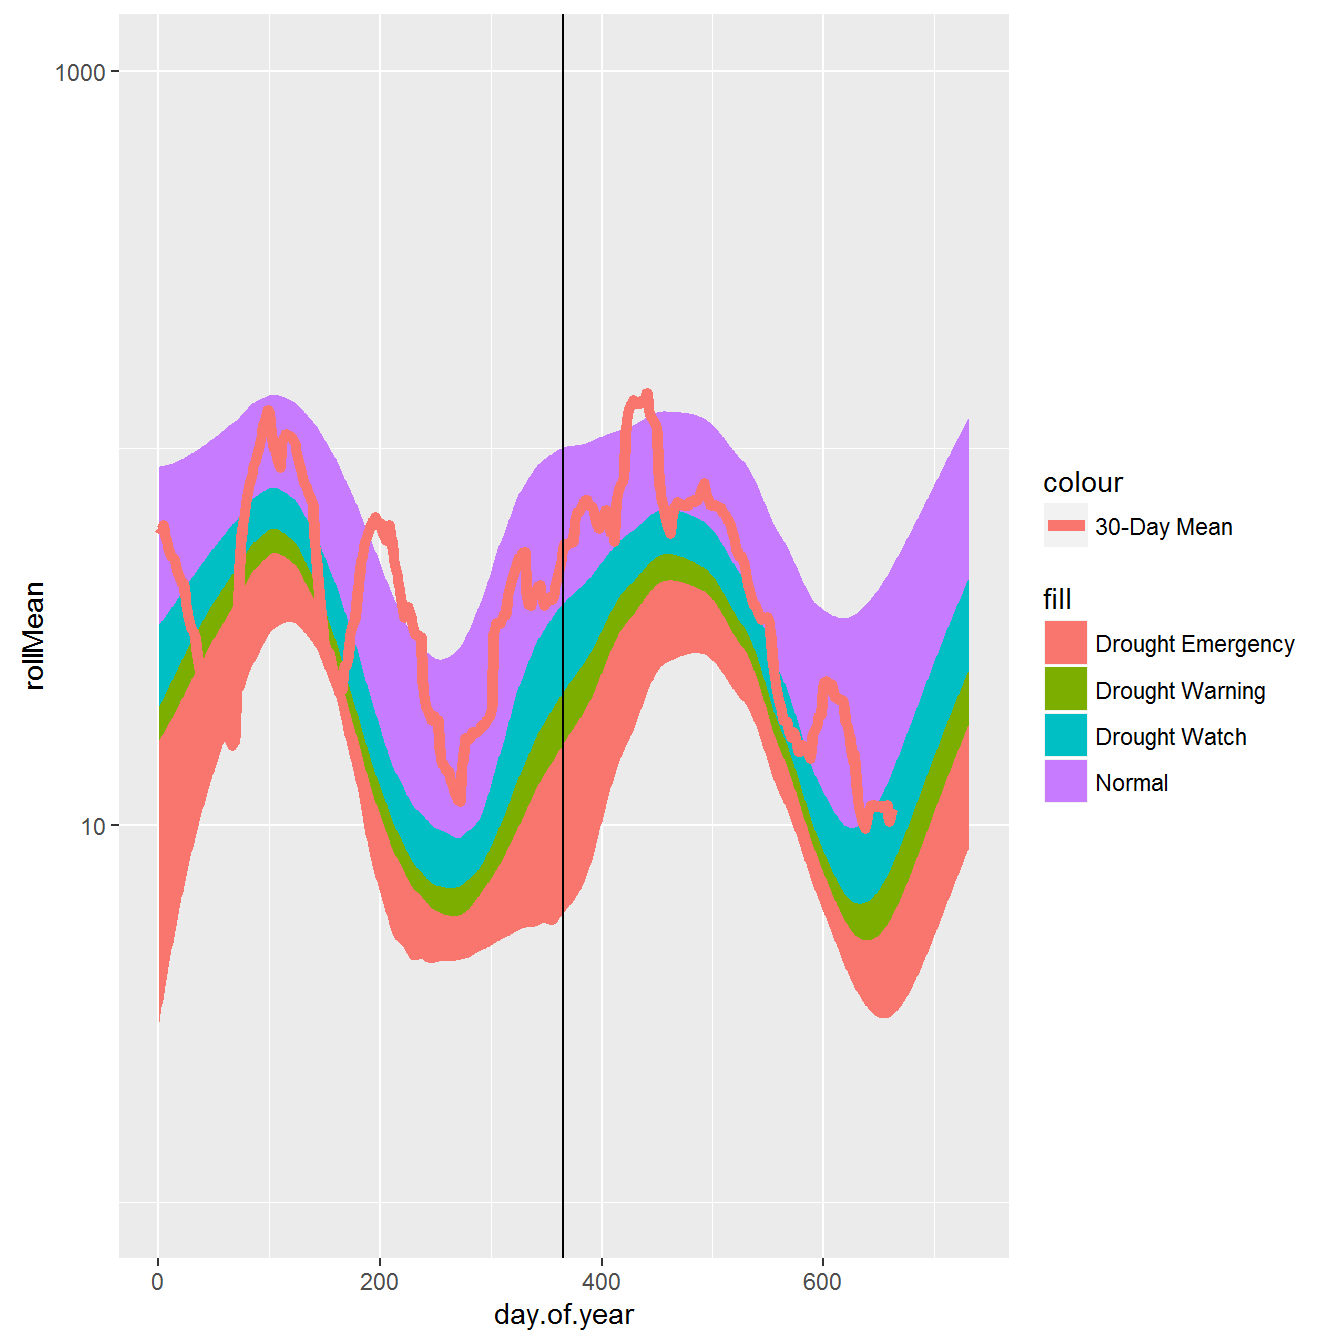
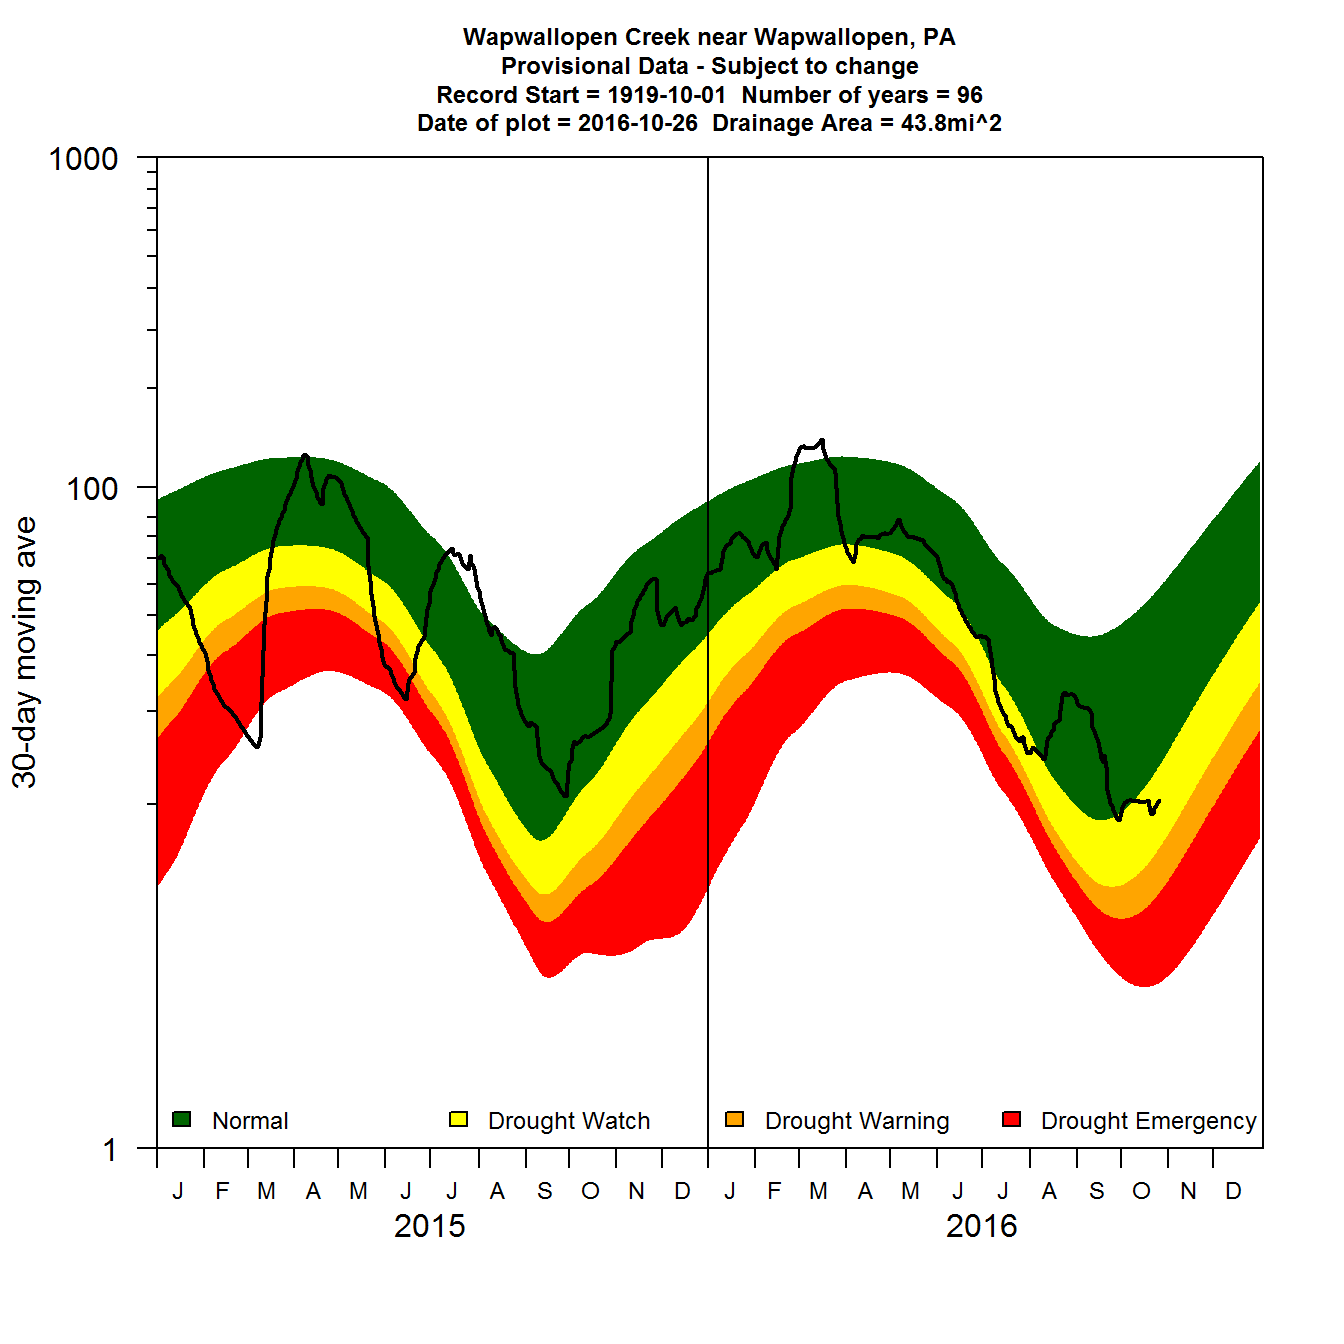
Updates based on review.

diff --git a/content/movingAverages.md b/content/movingAverages.md
@@ -3,15 +3,15 @@ author: Laura DeCicco
 date: 2016-10-25
 slug: moving-averages
 draft: True
-title: Moving Averages on NWIS Data
+title: Calculating Moving Averages and Historical Flow Quantiles
 type: post
 categories: Data Science
-image: static/moving-averages/unnamed-chunk-5-1.png
+image: static/moving-averages/unnamed-chunk-4-1.png
 tags: 
   - R
   - dataRetrieval
  
-description: Using the R-packages dataRetrieval, dplyr, and ggplot2, a simple discription on how to create a moving average plot.
+description: Using the R-packages dataRetrieval, dplyr, and ggplot2, a simple discription on how to create a moving-average plot with historical flow quantiles.
 keywords:
   - R
   - dataRetrieval
@@ -20,6 +20,7 @@ keywords:
  
 ---
 
+
 <a href="mailto:ldecicco@usgs.gov"><i class="fa fa-envelope-square fa-2x" aria-hidden="true"></i></a>
 <a href="https://twitter.com/DeCiccoDonk"><i class="fa fa-twitter-square fa-2x" aria-hidden="true"></i></a>
 <a href="https://github.com/ldecicco-usgs"><i class="fa fa-github-square fa-2x" aria-hidden="true"></i></a>
@@ -27,9 +28,14 @@ keywords:
 <a href="https://www.researchgate.net/profile/Laura_De_Cicco"><i class="ai ai-researchgate-square ai-2x" aria-hidden="true"></i></a>
 <a href="https://www.usgs.gov/staff-profiles/laura-decicco"><i class="fa fa-user fa-2x" aria-hidden="true"></i></a>
 
-This post will show simple way to create a moving average plot of discharge. The goal is to reproduce the graph at this link: [PA Graph](http://pa.water.usgs.gov/drought/indicators/sw/images/f30_01538000.html)
+This post will show simple way to calculate moving averages, calculate historical-flow quantiles, and plot that information. The goal is to reproduce the graph at this link: [PA Graph](http://pa.water.usgs.gov/drought/indicators/sw/images/f30_01538000.html). The motivation for this post was inspired by a USGS colleague that has been doing these type of calculations in SAS, but is considering transistioning to R. We thought this plot provided an especially fun challenge - maybe you will, too!
 
 First we get the data using the [dataRetrieval](https://CRAN.R-project.org/package=dataRetrieval) package. The siteNumber and parameterCd could be adjusted for other sites or measured parameters. In this example, we are getting discharge (parameter code 00060) at a site in PA.
+
+It may be important to note that this script is a bit lazy in handling leap days.
+
+Get data using dataRetrieval
+----------------------------
 
 ``` r
 library(dataRetrieval)
@@ -41,6 +47,9 @@ dailyQ <- readNWISdv(siteNumber, parameterCd)
 dailyQ <- renameNWISColumns(dailyQ)
 stationInfo <- readNWISsite(siteNumber)
 ```
+
+Calculate moving average
+------------------------
 
 Next, we calculate a 30-day moving average on all of the flow data:
 
@@ -68,7 +77,10 @@ dailyQ <- dailyQ %>%
                                            format = "%j")))
 ```
 
-We can use the `quantile` function to calculate historical percentile flows. Then use the `loess` function for smoothing. The argument `smooth.span` defines how much smoothing should be applied. To get a smooth transistion at the start of the graph:
+Calculate historical percentiles
+--------------------------------
+
+We can use the `quantile` function to calculate historical percentile flows. Then use the `loess` function for smoothing. The argument `smooth.span` defines how much smoothing should be applied. To get a smooth transistion at the start of the graph, we can add include an earlier year which is not plotted at the end.
 
 ``` r
 summaryQ <- dailyQ %>%
@@ -78,16 +90,19 @@ summaryQ <- dailyQ %>%
             p10 = quantile(rollMean, probs = 0.1, na.rm = TRUE),
             p05 = quantile(rollMean, probs = 0.05, na.rm = TRUE),
             p00 = quantile(rollMean, probs = 0, na.rm = TRUE)) 
+
+current.year <- as.numeric(strftime(Sys.Date(), format = "%Y"))
+
 summary.0 <- summaryQ %>%
   mutate(Date = as.Date(day.of.year - 1, 
-                        origin = "2014-01-01"))
-
+                        origin = paste0(current.year-2,"-01-01")),
+         day.of.year = day.of.year - 365)
 summary.1 <- summaryQ %>%
   mutate(Date = as.Date(day.of.year - 1, 
-                        origin = "2015-01-01"))
+                        origin = paste0(current.year-1,"-01-01")))
 summary.2 <- summaryQ %>%
   mutate(Date = as.Date(day.of.year - 1, 
-                        origin = "2016-01-01"),
+                        origin = paste0(current.year,"-01-01")),
          day.of.year = day.of.year + 365)
 
 summaryQ <- bind_rows(summary.0, summary.1, summary.2) 
@@ -112,21 +127,102 @@ summaryQ$sm.00 <- predict(loess(p00~day.of.year,
 
 summaryQ <- select(summaryQ, Date, day.of.year,
                    sm.75, sm.25, sm.10, sm.05, sm.00) %>%
-  filter(Date >= as.Date("2015-01-01"))
+  filter(Date >= as.Date(paste0(current.year-1,"-01-01")))
 
 latest.years <- dailyQ %>%
-  filter(Date >= as.Date("2015-01-01")) %>%
+  filter(Date >= as.Date(paste0(current.year-1,"-01-01"))) %>%
   mutate(day.of.year = 1:nrow(.))
 ```
 
-Finally, create the graph using the `ggplot2` package. Base-R options are also possible. The bulk of the putzy work in this script is to get the graph style just right. The following script shows a very simple way to re-create the graph in `ggplot2` with no effort on imitating desired style.
+Plot using base R
+-----------------
+
+Many of the graphical requirements defined by the USGS are difficult to achieve in `ggplot2`. Base R plotting can be used to obtain these types of graphs:
 
 ``` r
-library(ggplot2)
-library(scales)
+title.text <- paste0(stationInfo$station_nm,"\n",
+        "Provisional Data - Subject to change\n",
+        "Record Start = ", min(dailyQ$Date),
+        "  Number of years = ",
+        as.integer(as.numeric(difftime(time1 = max(dailyQ$Date), 
+        time2 = min(dailyQ$Date),
+        units = "weeks"))/52.25),
+        "\nDate of plot = ",Sys.Date(),
+        "  Drainage Area = ",stationInfo$drain_area_va, "mi^2")
 
 mid.month.days <- c(15, 45, 74, 105, 135, 166,
                     196, 227, 258, 288, 319, 349)
+month.letters <- c("J","F","M","A","M",
+                   "J","J","A","S","O",
+                   "N","D")
+start.month.days <- c(1, 32, 61, 92, 121, 152, 
+                      182, 214, 245, 274, 305, 335)
+label.text <- c("Normal",
+               "Drought Watch",
+               "Drought Warning",
+               "Drought Emergency")
+
+summary.year1 <- data.frame(summaryQ[2:366,])
+summary.year2 <- data.frame(summaryQ[367:733,])
+
+plot(latest.years$day.of.year, latest.years$rollMean, 
+     ylim = c(1, 1000), xlim = c(1, 733),
+     log="y", axes=FALSE, type="n", xaxs="i",yaxs="i",
+     ylab = "30-day moving ave",
+     xlab = "")
+title(title.text, cex.main = 0.75)
+polygon(c(summary.year1$day.of.year,rev(summary.year1$day.of.year)),
+        c(summary.year1$sm.75, rev(summary.year1$sm.25)), 
+        col = "darkgreen", border = FALSE)
+polygon(c(summary.year2$day.of.year,rev(summary.year2$day.of.year)),
+        c(summary.year2$sm.75, rev(summary.year2$sm.25)), 
+        col = "darkgreen", border = FALSE)
+polygon(c(summary.year1$day.of.year,rev(summary.year1$day.of.year)),
+        c(summary.year1$sm.25, rev(summary.year1$sm.10)), 
+        col = "yellow", border = FALSE)
+polygon(c(summary.year2$day.of.year,rev(summary.year2$day.of.year)),
+        c(summary.year2$sm.25, rev(summary.year2$sm.10)), 
+        col = "yellow", border = FALSE)
+polygon(c(summary.year1$day.of.year,rev(summary.year1$day.of.year)),
+        c(summary.year1$sm.10, rev(summary.year1$sm.05)), 
+        col = "orange", border = FALSE)
+polygon(c(summary.year2$day.of.year,rev(summary.year2$day.of.year)),
+        c(summary.year2$sm.10, rev(summary.year2$sm.05)), 
+        col = "orange", border = FALSE)
+polygon(c(summary.year1$day.of.year,rev(summary.year1$day.of.year)),
+        c(summary.year1$sm.05, rev(summary.year1$sm.00)), 
+        col = "red", border = FALSE)
+polygon(c(summary.year2$day.of.year,rev(summary.year2$day.of.year)),
+        c(summary.year2$sm.05, rev(summary.year2$sm.00)), 
+        col = "red", border = FALSE)
+lines(latest.years$day.of.year, latest.years$rollMean, 
+      lwd=2, col = "black")
+abline(v = 366)
+axis(2, las=1, at=c(1,100, 1000), tck = -0.02)
+axis(2, at = c(seq(1,90, by = 10)), labels = NA, tck = -0.01)
+axis(2, at = c(seq(100,1000, by = 100)), labels = NA, tck = -0.01)
+axis(1, at =  c(mid.month.days,365+mid.month.days), 
+     labels = rep(month.letters,2), 
+     tick = FALSE, line = -0.5, cex.axis = 0.75)
+axis(1, at = c(start.month.days, 365+start.month.days),
+     labels = NA, tck = -0.02)
+axis(1, at = c(182,547), labels = c(current.year-1,current.year), 
+     line = .5, tick = FALSE)
+legend("bottom", label.text, horiz = TRUE,
+       fill = c("darkgreen","yellow","orange","red"),
+       inset = c(0, 0), xpd = TRUE, bty = "n", cex = 0.75)
+box()
+```
+
+<img src='/static/moving-averages/unnamed-chunk-4-1.png'/ title='Simple 30-day moving average daily flow plot using base R' alt='TODO' class=''/>
+
+Plot using ggplot2
+------------------
+
+Finally, we can also try to create the graph using the `ggplot2` package. The following script shows a simple way to re-create the graph in `ggplot2` with no effort on imitating desired style:
+
+``` r
+library(ggplot2)
 
 simple.plot <- ggplot(data = summaryQ, aes(x = day.of.year)) +
   geom_ribbon(aes(ymin = sm.25, ymax = sm.75, 
@@ -145,41 +241,28 @@ simple.plot <- ggplot(data = summaryQ, aes(x = day.of.year)) +
 simple.plot
 ```
 
-<img src='/static/moving-averages/unnamed-chunk-4-1.png'/ title='Simple 30-day moving average daily flow plot' alt='30-day moving average daily flow plot, no effort on style' class=''/>
+<img src='/static/moving-averages/unnamed-chunk-5-1.png'/ title='Simple 30-day moving average daily flow plot using ggplot2' alt='30-day moving average daily flow plot, no effort on style' class=''/>
 
-Next, we can play with various options to do a better job:
+Next, we can play with various options to do a better job to imitate the style:
 
 ``` r
 styled.plot <- simple.plot+
   scale_x_continuous(breaks = c(mid.month.days,365+mid.month.days),
-                   labels= rep(c("J","F","M","A","M",
-                                 "J","J","A","S","O",
-                                 "N","D"),2),
+                   labels = rep(month.letters,2),
                    expand = c(0, 0),
                    limits = c(0,730)) +
   expand_limits(x = 0) +
   annotate(geom = "text", 
            x = c(182,547), 
            y = 1, 
-           label = c("2015","2016"), size = 4) +
+           label = c(current.year-1,current.year), size = 4) +
   theme_bw() + 
   theme(axis.ticks.x=element_blank(),
         panel.grid.major = element_blank(), 
         panel.grid.minor = element_blank()) +
-  labs(list(title=paste0(stationInfo$station_nm,"\n",
-                         "Provisional Data - Subject to change\n",
-                         "Record Start = ", min(dailyQ$Date),
-                         "  Number of years = ",
-                         as.integer(as.numeric(difftime(time1 = max(dailyQ$Date), 
-                                  time2 = min(dailyQ$Date),
-                                  units = "weeks"))/52.25),
-                         "\nDate of plot = ",Sys.Date(),
-                         "  Drainage Area = ",stationInfo$drain_area_va, "mi^2"),
+  labs(list(title=title.text,
             y = "30-day moving ave", x="")) +
-  scale_fill_manual(name="",breaks = c("Normal",
-                             "Drought Watch",
-                             "Drought Warning",
-                             "Drought Emergency"),
+  scale_fill_manual(name="",breaks = label.text,
                     values = c("red",
                                "orange",
                                "yellow",
@@ -190,9 +273,9 @@ styled.plot <- simple.plot+
 styled.plot
 ```
 
-<img src='/static/moving-averages/unnamed-chunk-5-1.png'/ title='Detailed 30-day moving average daily flow plot' alt='30-day moving average daily flow plot' class=''/>
+<img src='/static/moving-averages/unnamed-chunk-6-1.png'/ title='Detailed 30-day moving average daily flow plot' alt='30-day moving average daily flow plot' class=''/>
 
 Questions
-=========
+---------
 
 Please direct any questions or comments on `dataRetrieval` to: <https://github.com/USGS-R/dataRetrieval/issues>
